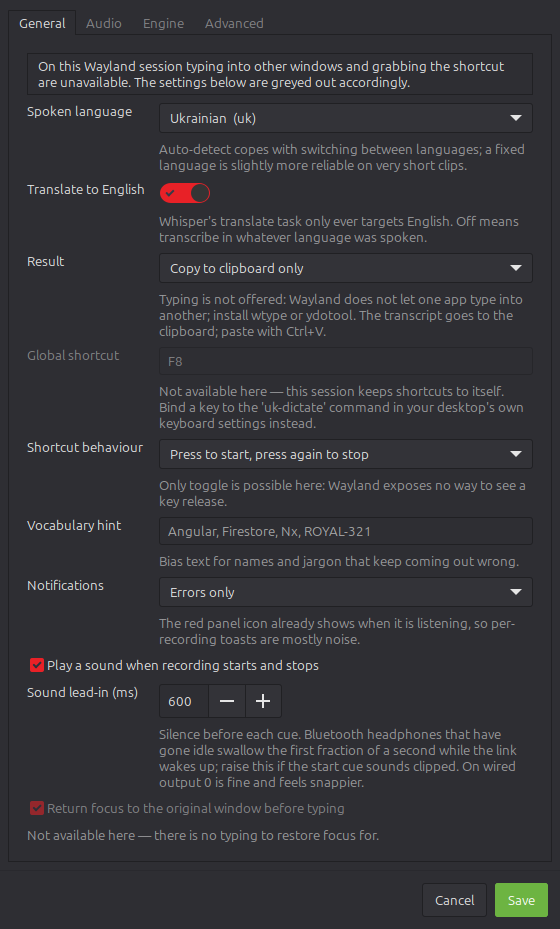
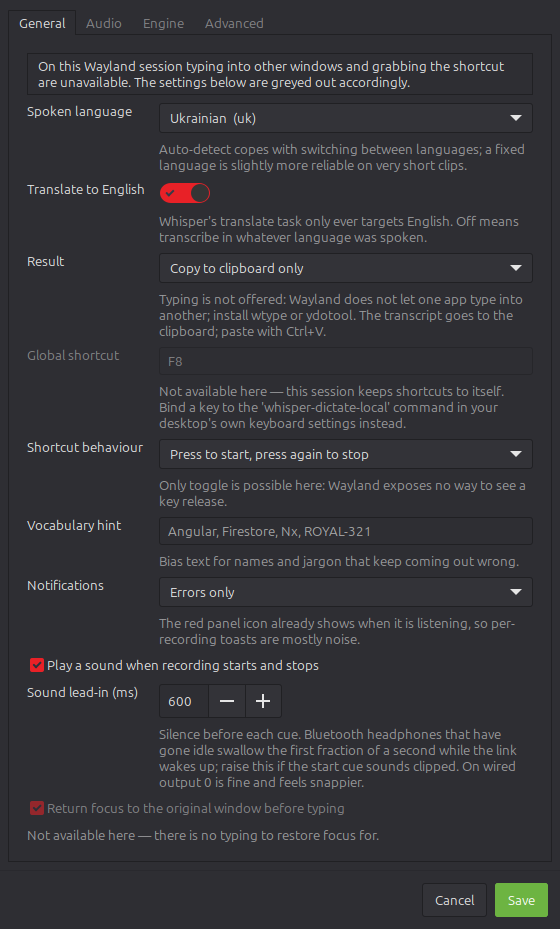
Rename to whisper-dictate-local, and describe what it actually does
The old name claimed a single input language the app never enforced. Whisper
accepts around a hundred, and "Translate to English" is a switch: turn it off
and the text comes out in the language that was spoken, making this equally a
plain transcription tool. The README now leads with that rather than with
Ukrainian, which is described as the author's use case and the reason for the
defaults.

Renamed throughout: the Python package, both launchers, the config directory,
the runtime state and sound-cache directories, the icons, the desktop entry
and the tray's application id. The whisper-server unit keeps its name -- it is
the engine, not this app.

Existing installs are carried across rather than reset:

- Config.load() moves ~/.config/uk-dictate to the new directory once, on first
  run, with shutil.move since XDG_CONFIG_HOME need not share a filesystem with
  $HOME. A failure is logged, never fatal.
- install.sh deletes the old autostart entry, menu entry, icons and tray
  symlink. Left in place, the autostart would point at a launcher that no
  longer exists and fail at every login, and the stale menu entry would look
  like the real thing.
- A ~/.local/bin/uk-dictate symlink is kept so a shortcut already bound to the
  old command keeps working.
- The sound cache is deleted rather than moved; it is regenerated on demand
  from the configured lead-in.
- A tray still running from before the rename is reported, not killed, so it
[…]

Changed region(s): [[0.2732, 0.437, 0.9411, 0.4682]]

diff --git a/whisper_dictate_local/config.py b/whisper_dictate_local/config.py
@@ -1,6 +1,6 @@
-"""Persistent configuration for uk-dictate.
+"""Persistent configuration for whisper-dictate-local.
 
-Stored as JSON in ~/.config/uk-dictate/config.json so both the tray app and the
+Stored as JSON in ~/.config/whisper-dictate-local/config.json so both the tray app and the
 CLI entry point read the same settings.
 """
 
@@ -9,13 +9,37 @@ from __future__ import annotations
 import json
 import logging
 import os
+import shutil
 from pathlib import Path
 from typing import Any
 
 log = logging.getLogger(__name__)
 
-CONFIG_DIR = Path(os.environ.get("XDG_CONFIG_HOME", Path.home() / ".config")) / "uk-dictate"
+_CONFIG_HOME = Path(os.environ.get("XDG_CONFIG_HOME", Path.home() / ".config"))
+CONFIG_DIR = _CONFIG_HOME / "whisper-dictate-local"
 CONFIG_PATH = CONFIG_DIR / "config.json"
+
+# The project was called uk-dictate until it grew past a single input language.
+# Settings are worth carrying over rather than silently resetting, so the old
+# directory is moved across once, the first time the renamed app runs.
+LEGACY_CONFIG_DIR = _CONFIG_HOME / "uk-dictate"
+
+
+def migrate_legacy_config() -> bool:
+    """Move a pre-rename config into place. True if anything was moved."""
+    if CONFIG_DIR.exists() or not LEGACY_CONFIG_DIR.is_dir():
+        return False
+    try:
+        CONFIG_DIR.parent.mkdir(parents=True, exist_ok=True)
+        # shutil.move rather than rename: XDG_CONFIG_HOME and the home
+        # directory are not guaranteed to be on the same filesystem.
+        shutil.move(str(LEGACY_CONFIG_DIR), str(CONFIG_DIR))
+    except OSError as exc:
+        # Never fatal: the app still works, just with default settings.
+        log.warning("could not migrate settings from %s (%s)", LEGACY_CONFIG_DIR, exc)
+        return False
+    log.info("settings migrated from %s to %s", LEGACY_CONFIG_DIR, CONFIG_DIR)
+    return True
 
 DEFAULTS: dict[str, Any] = {
     # Global shortcut, grabbed by the tray itself via Keybinder. Cinnamon's own
@@ -116,6 +140,7 @@ class Config:
     # -- persistence --------------------------------------------------------
     @classmethod
     def load(cls) -> "Config":
+        migrate_legacy_config()
         if not CONFIG_PATH.exists():
             cfg = cls()
             cfg.save()

diff --git a/tools/make_screenshots.py b/tools/make_screenshots.py
@@ -42,7 +42,7 @@ def capture(filename: str, session: str, hidden: tuple[str, ...], page: int) -> 
     A child process because capability detection runs at import time: masking
     tools in-process would leak into the next shot.
     """
-    title = f"uk-dictate-shot-{os.getpid()}-{page}"
+    title = f"whisper-dictate-local-shot-{os.getpid()}-{page}"
     script = f"""
 import os, shutil, sys
 os.environ["XDG_SESSION_TYPE"] = {session!r}
@@ -55,11 +55,11 @@ from pathlib import Path
 import gi
 gi.require_version("Gtk", "3.0")
 from gi.repository import Gtk, GLib
-from ukdictate import backend, settings_dialog
-from ukdictate.config import Config, DEFAULTS
+from whisper_dictate_local import backend, settings_dialog
+from whisper_dictate_local.config import Config, DEFAULTS
 backend.refresh()
 # Never this machine's real path.
-settings_dialog.CONFIG_PATH = Path("~/.config/uk-dictate/config.json")
+settings_dialog.CONFIG_PATH = Path("~/.config/whisper-dictate-local/config.json")
 dlg = settings_dialog.SettingsDialog(Config(dict(DEFAULTS)))
 dlg.set_title({title!r})
 dlg.show_all()

diff --git a/whisper_dictate_local/tray.py b/whisper_dictate_local/tray.py
@@ -38,7 +38,7 @@ from .settings_dialog import SettingsDialog  # noqa: E402
 
 log = logging.getLogger(__name__)
 
-APP_ID = "uk-dictate"
+APP_ID = "whisper-dictate-local"
 # How often push-to-talk checks whether the key is still down. 40ms is well
 # below human reaction time and costs nothing measurable.
 POLL_RELEASE_MS = 40
@@ -47,9 +47,9 @@ PIDFILE = STATE_DIR / "tray.pid"
 # Installed into ~/.local/share/icons/hicolor/scalable/apps by install.sh.
 # The recording/busy icons are full-colour on purpose: a "-symbolic" icon gets
 # recoloured to the panel foreground, which would throw away the red.
-ICON_IDLE = "uk-dictate-idle-symbolic"
-ICON_RECORDING = "uk-dictate-recording"
-ICON_BUSY = "uk-dictate-busy"
+ICON_IDLE = "whisper-dictate-local-idle-symbolic"
+ICON_RECORDING = "whisper-dictate-local-recording"
+ICON_BUSY = "whisper-dictate-local-busy"
 
 # Fall back to stock names if the themed icons are not installed.
 ICON_FALLBACK = {

diff --git a/whisper_dictate_local/settings_dialog.py b/whisper_dictate_local/settings_dialog.py
@@ -265,7 +265,7 @@ class SettingsDialog(Gtk.Window):
         else:
             page.add("Global shortcut", self.hotkey_entry,
                      unavailable="this session keeps shortcuts to itself. Bind a "
-                                 "key to the 'uk-dictate' command in your "
+                                 "key to the 'whisper-dictate-local' command in your "
                                  "desktop's own keyboard settings instead")
 
         self.mode_combo = Gtk.ComboBoxText()

diff --git a/whisper_dictate_local/cli.py b/whisper_dictate_local/cli.py
@@ -135,7 +135,7 @@ def _check(cfg: Config) -> int:
 
 def main(argv: list[str] | None = None) -> int:
     parser = argparse.ArgumentParser(
-        prog="uk-dictate",
+        prog="whisper-dictate-local",
         description="Toggle dictation. Bind this to a keyboard shortcut.",
     )
     parser.add_argument("--no-tray", action="store_true",

diff --git a/tools/make_sounds.py b/tools/make_sounds.py
@@ -12,7 +12,7 @@ from pathlib import Path
 
 sys.path.insert(0, str(Path(__file__).resolve().parent.parent))
 
-from ukdictate import sounds  # noqa: E402
+from whisper_dictate_local import sounds  # noqa: E402
 
 lead = int(sys.argv[1]) if len(sys.argv) > 1 else 600
 sounds.generate(lead)

diff --git a/whisper_dictate_local/backend.py b/whisper_dictate_local/backend.py
@@ -27,7 +27,7 @@ from urllib.parse import urlparse
 
 log = logging.getLogger(__name__)
 
-STATE_DIR = Path(os.environ.get("XDG_RUNTIME_DIR", "/tmp")) / "uk-dictate"
+STATE_DIR = Path(os.environ.get("XDG_RUNTIME_DIR", "/tmp")) / "whisper-dictate-local"
 
 
 class DictationError(Exception):

diff --git a/whisper_dictate_local/sounds.py b/whisper_dictate_local/sounds.py
@@ -24,7 +24,7 @@ AMPLITUDE = 0.45
 
 CACHE_DIR = (
     Path(os.environ.get("XDG_DATA_HOME", Path.home() / ".local/share"))
-    / "uk-dictate"
+    / "whisper-dictate-local"
     / "sounds"
 )
 STAMP = CACHE_DIR / ".generated.json"

diff --git a/README.md b/README.md
@@ -1,9 +1,20 @@
-# uk-dictate
+# whisper-dictate-local
 
-Push-a-key dictation for Linux: speak Ukrainian, get English text typed into
-whatever window you are using. Everything runs locally on the GPU via
+Push-a-key dictation for Linux. Speak, and the text appears in whatever window
+you were already typing in. Everything runs locally on the GPU via
 [whisper.cpp](https://github.com/ggml-org/whisper.cpp) — no API keys, no audio
 leaving the machine.
+
+It works two ways, switched by a single setting:
+
+- **Transcribe** — the text comes out in the language you spoke. Whisper handles
+  around a hundred, and the dialog offers a shortlist you can extend by hand.
+- **Translate to English** — speak any supported language, get English. This is
+  Whisper's own translate task, and English is the only target it has; other
+  target languages would need a separate translation step.
+
+The author's daily use is Ukrainian in, English out, which is why the shortlist
+and the defaults start there.
 
 Developed on Linux Mint / Cinnamon, and works on any **X11** desktop.
 Wayland is limited to clipboard output — see [Compatibility](#compatibility).
@@ -11,15 +22,15 @@ Wayland is limited to clipboard output — see [Compatibility](#compatibility).
 ## How it works
 
 ```
-global shortcut ──► uk-dictate ──► tray app (SIGUSR1)
-                                      │
-                        parecord ─────┤ raw PCM
-                                      │
-                          silence gate │  (RMS dBFS)
-                                      │
-                    whisper-server ───┤  HTTP, model stays resident
-                                      │
-                         xdotool type ┘  + clipboard copy
+global shortcut ──► whisper-dictate-local ──► tray app (SIGUSR1)
+                                                  │
+                                    parecord ─────┤ raw PCM
+                                                  │
+                                  silence gate ───┤ (RMS dBFS)
+                                                  │
+                              whisper-server ─────┤ HTTP, model stays resident
+                                                  │
+                                 xdotool type ────┘ + clipboard copy
 ```
 
 Two shortcut behaviours, switchable in Settings:
@@ -92,10 +103,10 @@ input into another. On a Wayland session:
   Use toggle mode.
 - **Focus restore does not work** and is unnecessary in copy mode.
 - **The global shortcut must come from your compositor.** Bind your key to the
-  `uk-dictate` command in the desktop's own keyboard settings; the CLI signals
+  `whisper-dictate-local` command in the desktop's own keyboard settings; the CLI signals
   the running tray, so behaviour is identical to the built-in grab.
 
-Run `uk-dictate --check` to see exactly what your session supports. The
+Run `whisper-dictate-local --check` to see exactly what your session supports. The
 settings dialog adapts to it too — [see the screenshot](#settings).
 
 ### Without systemd
@@ -180,7 +191,7 @@ transcription only, and its translation quality is noticeably worse.
 
 ```bash
 ./install.sh          # DICTATE_KEY=F8 ./install.sh to pick another shortcut
-uk-dictate-tray &
+whisper-dictate-local-tray &
 ```
 
 This symlinks the launchers into `~/.local/bin`, enables the speech engine as a
@@ -198,7 +209,7 @@ user service, autostarts the tray, and binds the shortcut.
 
 Right-click the panel icon → **Settings**. Every option lives in the UI across
 four tabs — General, Audio, Engine, Advanced — and nothing needs the JSON to be
-edited by hand. Stored in `~/.config/uk-dictate/config.json`.
+edited by hand. Stored in `~/.config/whisper-dictate-local/config.json`.
 
 | General | Audio |
 |---|---|
@@ -259,7 +270,7 @@ are greyed out with the reason:
   tray menu does not send text to the panel.
 - **Silence gate uses peak + spread, not a whole-clip average.** A short
   phrase surrounded by pauses averages out to near-silence; measured on a real
-  6s Ukrainian phrase, the mean was -47 dB (below a -45 gate) while the peak was
+  6s spoken phrase, the mean was -47 dB (below a -45 gate) while the peak was
   -38.6 dB against a -51 dB floor. Peak-vs-floor also survives changes in mic
   gain, which an absolute average does not.
 - **Language is always sent explicitly.** whisper's own default is `en`, not
@@ -287,7 +298,7 @@ are greyed out with the reason:
   tool for each job — record, type, clipboard, play, focus, engine — by probing
   what is installed, never by checking the distribution. The rest of the app is
   written in terms of intent, so Wayland support is a detection branch rather
-  than a fork, and `uk-dictate --check` can report the result.
+  than a fork, and `whisper-dictate-local --check` can report the result.
 - **The clipboard copy must not capture output.** X11 and Wayland have no
   clipboard storage: the process that ran the copy stays alive to serve the
   selection. `xclip` forks such a child, which inherits any pipe it is given —
@@ -349,9 +360,9 @@ subtitles in its training data. Check the mic, not the settings.
 ## Troubleshooting
 
 ```bash
-uk-dictate --check                         # what this machine supports
+whisper-dictate-local --check                         # what this machine supports
 journalctl --user -u whisper-server -f     # engine logs
-uk-dictate --no-tray                       # bypass the tray
+whisper-dictate-local --no-tray                       # bypass the tray
 systemctl --user restart whisper-server
 ```
 
@@ -359,7 +370,7 @@ systemctl --user restart whisper-server
 job. It is the first thing to include in a bug report, because what works
 depends on the session rather than the distribution.
 
-Nothing typed? Run `uk-dictate --check` first — on a Wayland session typing is
+Nothing typed? Run `whisper-dictate-local --check` first — on a Wayland session typing is
 impossible and the text goes to the clipboard instead. On X11 with `xdotool`
 present, the likely cause is an Electron or Java window ignoring synthetic key
 events; the clipboard copy is the fallback.
